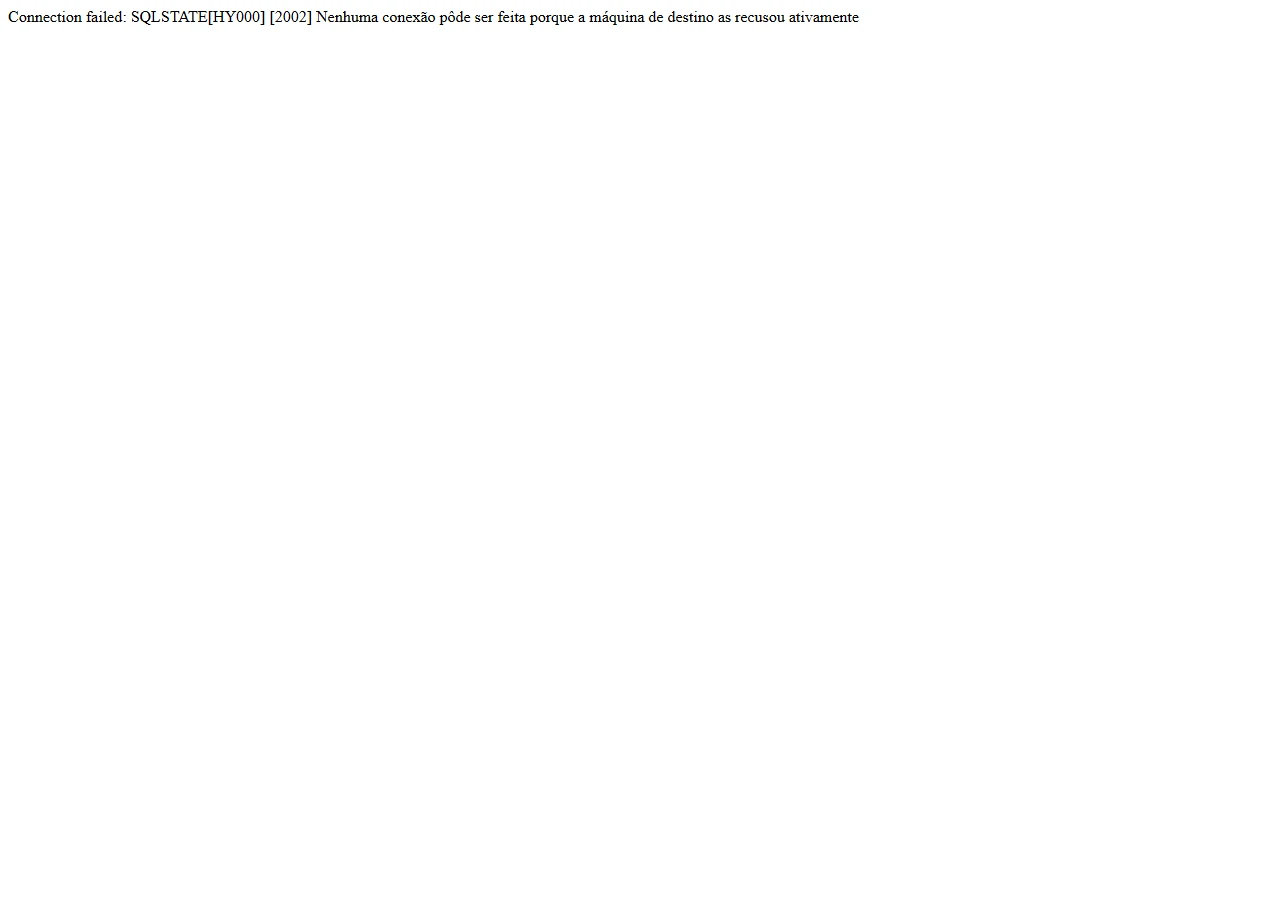
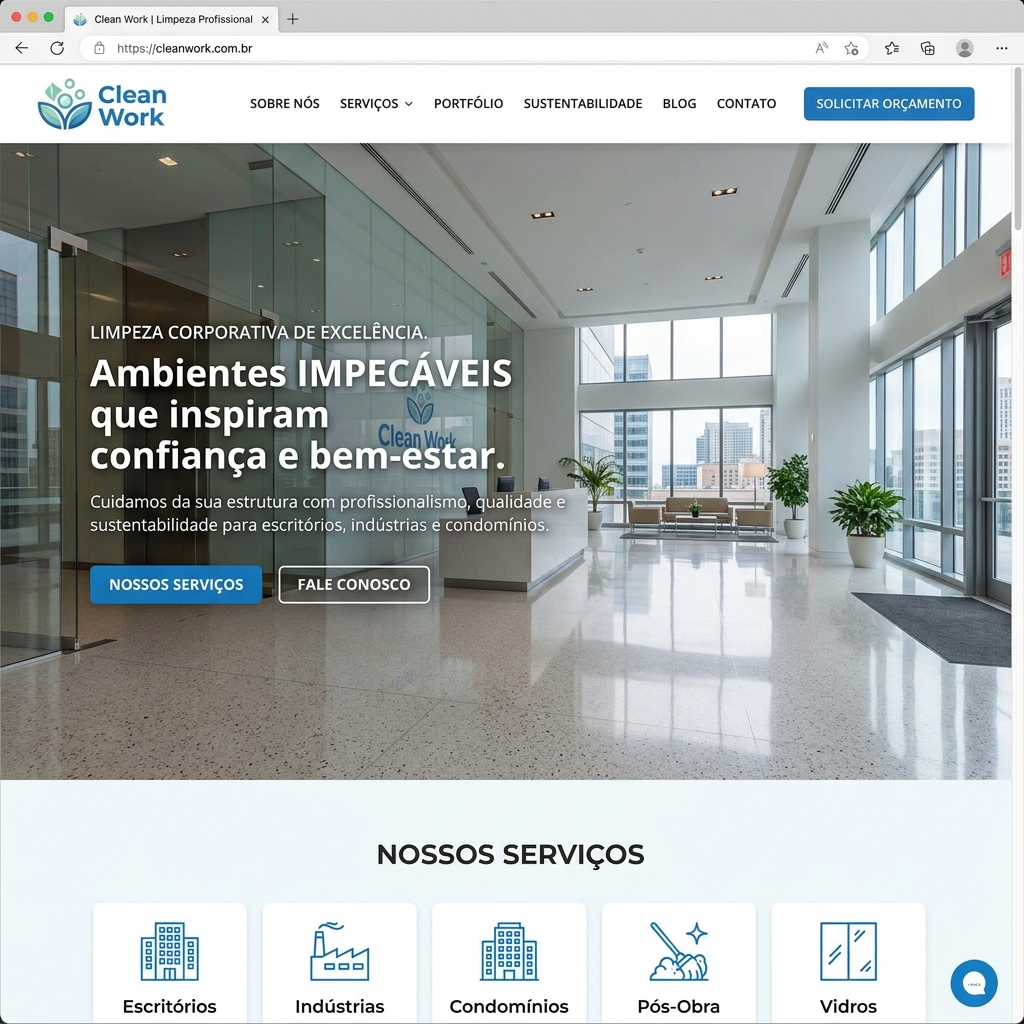
fix: resolve broken images and grid background in works section

diff --git a/app/HomeClient.tsx b/app/HomeClient.tsx
@@ -106,10 +106,10 @@ export function HomeClient() {
               Ver Todos <ArrowRight size={14} />
             </Link>
           </FadeIn>
-          <div style={{ display: 'grid', gridTemplateColumns: 'repeat(auto-fit, minmax(300px, 1fr))', gap: '1px', background: 'hsl(var(--border) / 0.1)' }}>
+          <div style={{ display: 'grid', gridTemplateColumns: 'repeat(auto-fit, minmax(300px, 1fr))', gap: '1.5rem' }}>
             {works.map((w, i) => (
               <FadeIn key={i} delay={i * 60}>
-                <Link href={w.href} style={{ display: 'block', background: 'hsl(var(--background))', overflow: 'hidden', position: 'relative', cursor: 'pointer' }}
+                <Link href={w.href} style={{ display: 'block', background: 'hsl(var(--background))', overflow: 'hidden', position: 'relative', cursor: 'pointer', border: '1px solid hsl(var(--border) / 0.1)' }}
                   onMouseEnter={e => { const img = e.currentTarget.querySelector('img') as HTMLImageElement; if (img) img.style.transform = 'scale(1.04)' }}
                   onMouseLeave={e => { const img = e.currentTarget.querySelector('img') as HTMLImageElement; if (img) img.style.transform = 'scale(1)' }}>
                   <div style={{ aspectRatio: '4/3', overflow: 'hidden', position: 'relative' }}>
